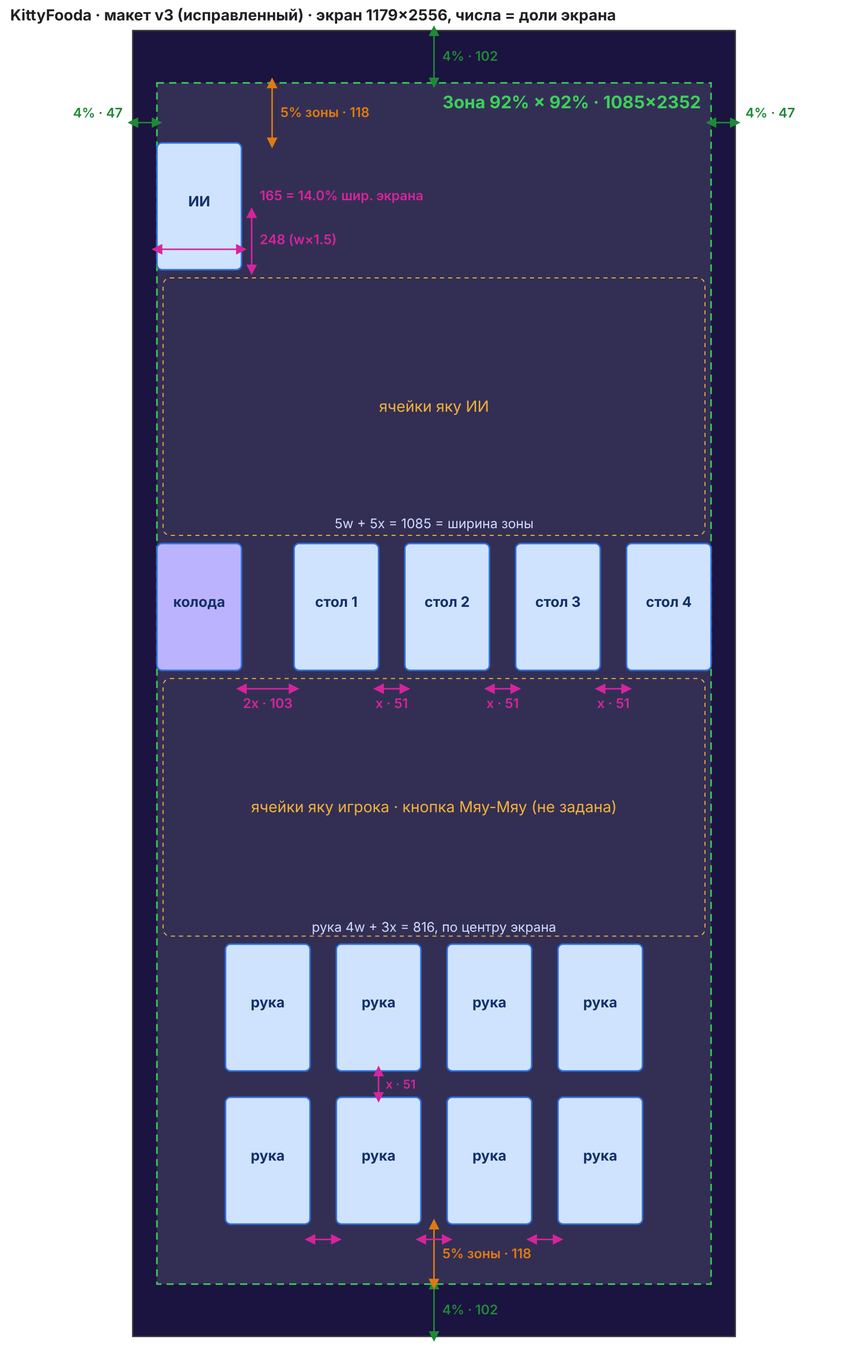
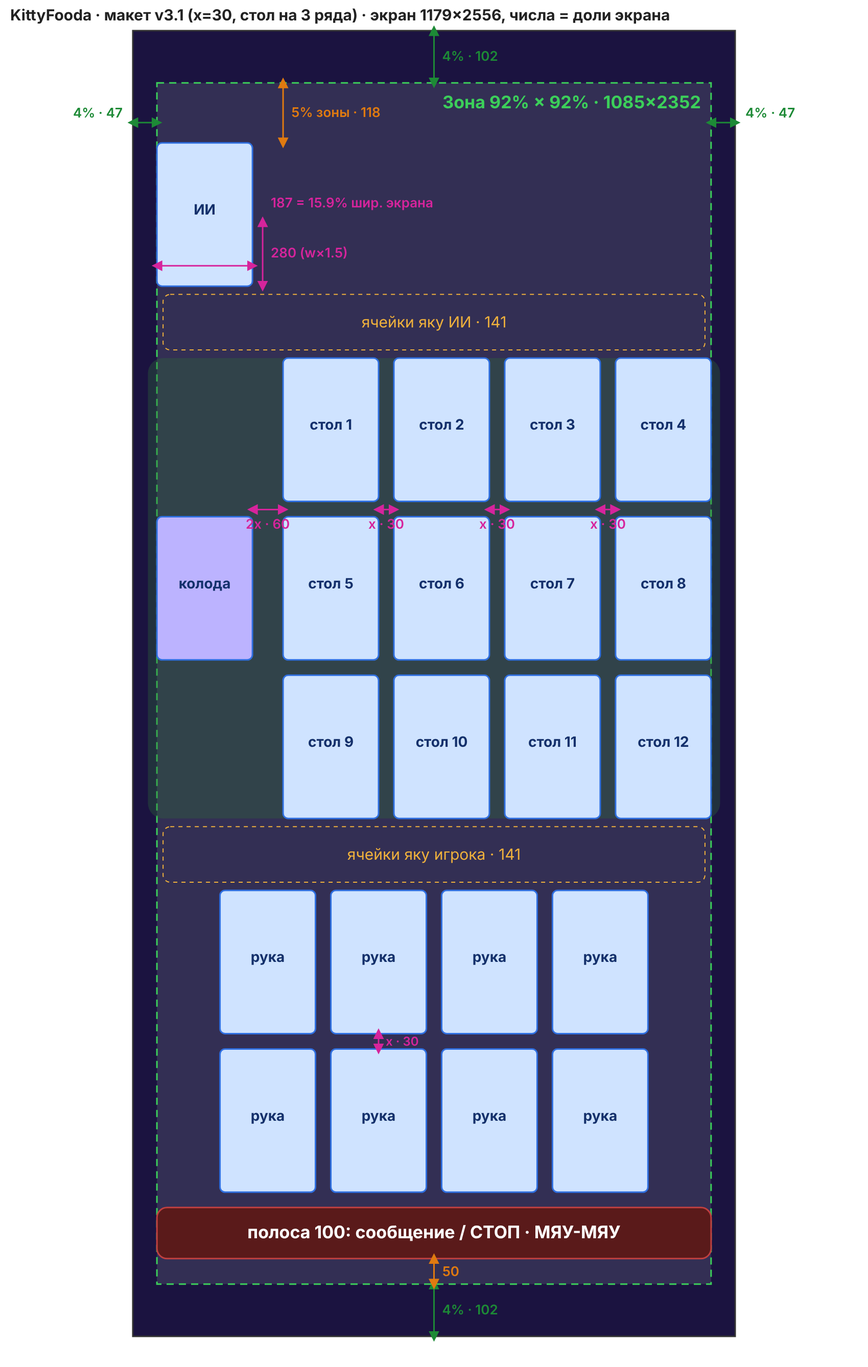
UI: раскладка по макету v3 — поля 4%, x=30, карта 187×280 (2:3), стол на 3 ряда
Ряд стола (колода + 2x + 4 карты через x) равен ширине зоны 92%; рука
по центру экрана, полоса Мяу-Мяу под рукой (100, отступ 50). k уменьшается,
если ячейкам яку не хватает высоты. Макет docs/ui/layout-v3.png, описание
и счёт по высоте — docs/ui-layout.md.

Claude-Session: https://claude.ai/code/session_01YWBhc7XyH6Quahzkpjq16G

Changed region(s): [[0.156, 0.2171, 0.8423, 0.9305], [0.156, 0.062, 0.4991, 0.2171], [0.2184, 0.0, 0.7487, 0.031]]

diff --git a/index.html b/index.html
@@ -229,19 +229,26 @@ const YPH  = 546;  // Player hand top (2 ряда — см. playerHandLayout)
 const YMSG = 706;  // Message bar
 const YBTN = 762;  // Choice buttons
 
-// ── Игровой стол: раскладка под экран (2026-10-09) ───────────────
-// Макет задан в «референсных» пикселях экрана iPhone 15 (1179×2556,
-// это и есть физические пиксели этого экрана). Пиксельные размеры
-// масштабируются одним коэффициентом k, проценты (отступы сверху/снизу,
-// высота стола) берутся от реальной высоты экрана. Если экран короче
-// (16:9, планшет), k ограничивается высотой, и поле центрируется.
-// Одна функция boardLayout() — и для отрисовки, и для хит-теста кликов.
-const REF_W=1179;          // ширина экрана-образца
-const MIN_REF_H=2340;      // минимальная высота (в реф. px), при которой всё помещается
-const SAFE_W=1100;         // ширина игровой зоны
-const BCW=190, BCH=310;    // карта на столе и в руке
-const B_GAP=20;            // промежуток между картами
-const SAFE_TOP=0.08, SAFE_BOTTOM=0.07, FELT_H=0.40, FELT_W=0.95;
+// ── Игровой стол: раскладка под экран (макет v3, 2026-10-10) ────
+// Макет — docs/ui/layout-v3.png. Экран-образец iPhone 15, 1179×2556
+// «референсных» px (= физические px этого экрана), размеры — доли экрана.
+// Поля экрана 4% → игровая зона 92%; внутри зоны отступ сверху 5% её высоты.
+// Ряд стола: колода, промежуток 2x, 4 карты через x — ровно ширина зоны,
+// отсюда размер карты (x = 30 → 187×280, пропорция 2:3). Место стола —
+// на 3 ряда по 4. Рука 2×4 по центру экрана, под ней полоса «Мяу-Мяу».
+// k — масштаб реф. px → CSS px; если экран короче нужного, k уменьшается
+// по высоте и поле центрируется. Одна boardLayout() — для отрисовки и кликов.
+const REF_W=1179;
+const SAFE_M=0.04;                 // поле экрана с каждой стороны
+const SAFE_W=REF_W*(1-2*SAFE_M);   // 1084.7 — ширина игровой зоны
+const ZONE_PAD=0.05;               // отступ сверху внутри зоны, доля её высоты
+const B_GAP=30;                    // промежуток x между картами
+const BCW=(SAFE_W-5*B_GAP)/5;      // 186.9 — колода + 4 карты + 2x + 3x
+const BCH=BCW*1.5;                 // 280.4
+const TABLE_ROWS=3;                // место стола — на 3 ряда
+const BAND_H=100, BAND_BOTTOM=50;  // полоса сообщений/«Мяу-Мяу» и отступ под ней
+const HEADER_H=80;                 // счёт/раунд/💡 — в верхнем отступе зоны
+const MIN_CELLS=120;               // минимальная высота промежутка под ячейки яку
 
 let VIEW={cssW:450,cssH:800,dpr:1,k:1,VW:REF_W,VH:2556,ls:1,lx:0,ly:0};
 function readTgInsets(){
@@ -255,9 +262,12 @@ function resizeCanvas(){
   const dpr=Math.min(3,window.devicePixelRatio||1);
   cv.style.width=cssW+'px';cv.style.height=cssH+'px';
   cv.width=Math.round(cssW*dpr);cv.height=Math.round(cssH*dpr);
-  const k=Math.min(cssW/REF_W, cssH/MIN_REF_H);
+  const insets=readTgInsets();
+  // k по ширине; если по высоте не помещается (ячейкам яку < MIN_CELLS) — уменьшаем
+  let k=cssW/REF_W;
+  for(let i=0;i<40&&boardLayout({k,VW:cssW/k,VH:cssH/k,insets}).cellsGap<MIN_CELLS;i++) k*=0.97;
   const ls=Math.min(cssW/W, cssH/H); // старые экраны (меню, журнал) — 450×800 по центру
-  VIEW={cssW,cssH,dpr,k,VW:cssW/k,VH:cssH/k,ls,lx:(cssW-W*ls)/2,ly:(cssH-H*ls)/2,insets:readTgInsets()};
+  VIEW={cssW,cssH,dpr,k,VW:cssW/k,VH:cssH/k,ls,lx:(cssW-W*ls)/2,ly:(cssH-H*ls)/2,insets};
 }
 function setBoardTransform(){const v=VIEW;ct.setTransform(v.dpr*v.k,0,0,v.dpr*v.k,0,0);}
 function setLegacyTransform(){const v=VIEW;ct.setTransform(v.dpr*v.ls,0,0,v.dpr*v.ls,v.dpr*v.lx,v.dpr*v.ly);}
@@ -271,39 +281,40 @@ function dimScreen(color){
 function toBoard(cx,cy){return {x:cx/VIEW.k, y:cy/VIEW.k};}
 function toLegacy(cx,cy){return {x:(cx-VIEW.lx)/VIEW.ls, y:(cy-VIEW.ly)/VIEW.ls};}
 
-function boardLayout(){
-  const {VW,VH,k,insets}=VIEW;
+function boardLayout(V=VIEW){
+  const {VW,VH,k,insets}=V;
   const sx=(VW-SAFE_W)/2;
-  const sTop=Math.max(VH*SAFE_TOP, (insets?insets.top:0)/k);
-  const sBot=VH-Math.max(VH*SAFE_BOTTOM, (insets?insets.bottom:0)/k);
-  const colX=sx+10+BCW+40;                       // первая колонка стола и руки
-  const band={x:sx,y:sBot-100,w:SAFE_W,h:100};   // кнопки Стоп / Мяу-Мяу, сообщения
-  const handY2=band.y-BCH, handY1=handY2-B_GAP-BCH;
-  const ai={x:colX,y:sTop+80};
-  const midTop=ai.y+BCH, midBot=handY1;
-  const midC=(midTop+midBot)/2;
-  const tableH=2*BCH+B_GAP;
-  const tableY=midC-tableH/2;
-  const gapA=tableY-midTop, gapP=midBot-(tableY+tableH);
-  const pad=Math.min(16,gapA/8);
+  const sTop=Math.max(VH*SAFE_M, (insets?insets.top:0)/k);
+  const sBot=VH-Math.max(VH*SAFE_M, (insets?insets.bottom:0)/k);
+  const pad=(sBot-sTop)*ZONE_PAD;
+  const colX=sx+BCW+2*B_GAP;                     // первая колонка стола
+  const band={x:sx,y:sBot-BAND_BOTTOM-BAND_H,w:SAFE_W,h:BAND_H};
+  const handY2=band.y-B_GAP-BCH, handY1=handY2-B_GAP-BCH;
+  const handX=(VW-(4*BCW+3*B_GAP))/2;            // рука — по центру экрана
+  const ai={x:sx,y:sTop+pad};
+  const tableH=TABLE_ROWS*BCH+(TABLE_ROWS-1)*B_GAP;
+  const cellsGap=(handY1-(ai.y+BCH)-tableH)/2;   // по промежутку над и под столом
+  const tableY=ai.y+BCH+cellsGap;
+  const cp=Math.min(16,Math.max(0,cellsGap)/8);
   return {
-    VW,VH,sx,sTop,sBot,colX,band,
-    header:{x:sx,y:sTop,w:SAFE_W,h:80},
-    hint:{x:sx+SAFE_W-200,y:sTop+6,w:200,h:68},
-    ai, aiAct:{x:ai.x+BCW+40,y:ai.y},
-    deck:{x:sx+10,y:midC-BCH/2},
+    VW,VH,sx,sTop,sBot,pad,colX,handX,band,cellsGap,
+    header:{x:sx,y:sTop+Math.max(0,(pad-HEADER_H)/2),w:SAFE_W,h:Math.min(HEADER_H,pad)},
+    hint:{x:sx+SAFE_W-200,y:sTop+Math.max(0,(pad-68)/2),w:200,h:Math.min(68,pad)},
+    ai, aiAct:{x:colX,y:ai.y},
+    deck:{x:sx,y:tableY+(tableH-BCH)/2},
     table:{x:colX,y:tableY,h:tableH},
-    felt:{x:(VW-VW*FELT_W)/2,y:midC-VH*FELT_H/2,w:VW*FELT_W,h:VH*FELT_H},
-    cellsAI:{x:sx,y:midTop+pad,w:SAFE_W,h:gapA-2*pad},
-    cellsP:{x:sx,y:tableY+tableH+pad,w:SAFE_W,h:gapP-2*pad},
+    felt:{x:VW*0.025,y:tableY,w:VW*0.95,h:tableH},
+    cellsAI:{x:sx,y:ai.y+BCH+cp,w:SAFE_W,h:cellsGap-2*cp},
+    cellsP:{x:sx,y:tableY+tableH+cp,w:SAFE_W,h:cellsGap-2*cp},
     handY1,handY2,
   };
 }
-// Стол: 4 колонки; больше 8 карт — 3-й ряд, карты ужимаются в ту же высоту
+// Стол: 4 колонки, до 3 рядов полным размером (по центру места стола);
+// больше 12 карт — ряды ужимаются в ту же высоту
 function tableLayout(L){
   const sorted=[...G.table].sort((a,b)=>a.m-b.m);
   const rows=Math.max(2,Math.ceil(sorted.length/4));
-  const h=rows<=2?BCH:(L.table.h-(rows-1)*B_GAP)/rows, w=h*BCW/BCH;
+  const h=Math.min(BCH,(L.table.h-(rows-1)*B_GAP)/rows), w=h*BCW/BCH;
   const y0=L.table.y+(L.table.h-(rows*h+(rows-1)*B_GAP))/2;
   return sorted.map((card,i)=>({card,w,h,
     x:L.table.x+(i%4)*(w+B_GAP), y:y0+Math.floor(i/4)*(h+B_GAP)}));
@@ -315,7 +326,7 @@ function playerHandLayout(L=boardLayout()){
     .map((card,i)=>({card,i}))
     .sort((a,b)=>a.card.m-b.card.m||(a.i-b.i))
     .map((e,idx)=>({card:e.card,i:e.i,
-      x:L.colX+(idx%4)*(BCW+B_GAP),
+      x:L.handX+(idx%4)*(BCW+B_GAP),
       y:idx<4?L.handY1:L.handY2}));
 }
 function choiceButtons(L){
@@ -326,7 +337,7 @@ const inRect=(p,r)=>p.x>=r.x&&p.x<=r.x+r.w&&p.y>=r.y&&p.y<=r.y+r.h;
 
 function drawBoard(){
   const L=boardLayout();
-  // Сукно стола: 95% ширины, 40% высоты экрана
+  // Сукно стола: 95% ширины, по высоте — место стола на 3 ряда
   ct.fillStyle='rgba(20,60,30,.35)';
   ct.beginPath();rr(L.felt.x,L.felt.y,L.felt.w,L.felt.h,40);ct.fill();
   drawBoardHeader(L);

diff --git a/tools/ui-shots/measure.js b/tools/ui-shots/measure.js
@@ -7,10 +7,13 @@ const { chromium } = require('/opt/node-tools/node_modules/playwright');
     await p.goto('file://'+require('path').resolve(__dirname,'../../index.html')); await p.waitForTimeout(200);
     const r = await p.evaluate(() => { newGame(); const L=boardLayout(); const t=tableLayout(L)[0], hd=playerHandLayout(L);
       const px=v=>+(v*VIEW.k*VIEW.dpr).toFixed(1);
-      return {k:+(VIEW.k*VIEW.dpr).toFixed(3), card:[px(BCW),px(BCH)], table0:[px(t.w),px(t.h)],
-        deckLeftFromSafe:px(L.deck.x-L.sx), gapDeckTable:px(L.colX-(L.deck.x+BCW)), gapTable:px(B_GAP),
-        safeW:px(SAFE_W), top:px(L.sTop), topPct:+(L.sTop/L.VH*100).toFixed(1), botPct:+((L.VH-L.sBot)/L.VH*100).toFixed(1),
-        aiFromTop:px(L.ai.y-L.sTop), band:px(L.band.h), aiAlignedHand: L.ai.x===hd[0].x };
+      const T=tableLayout(L);
+      return {k:+(VIEW.k*VIEW.dpr).toFixed(3), card:[px(BCW),px(BCH)], table0:[px(T[0].w),px(T[0].h)],
+        sidePct:+(L.sx/L.VW*100).toFixed(1), topPct:+(L.sTop/L.VH*100).toFixed(1), botPct:+((L.VH-L.sBot)/L.VH*100).toFixed(1),
+        safeW:px(SAFE_W), padPct:+(L.pad/(L.sBot-L.sTop)*100).toFixed(1),
+        gapDeckTable:px(L.colX-(L.deck.x+BCW)), gapX:px(B_GAP), rowW:px(T[3].x+T[3].w-L.sx),
+        tableH3rows:px(L.table.h), cellsGap:px(L.cellsGap), band:px(L.band.h),
+        handCentered:Math.abs(hd[0].x+(hd[3].x+BCW)-L.VW)<0.01, aiAlignedDeck:L.ai.x===L.deck.x };
     });
     console.log(name, JSON.stringify(r)); await p.close();
   }

diff --git a/docs/ui-layout.md b/docs/ui-layout.md
@@ -1,10 +1,10 @@
-# Раскладка игрового экрана (UI v2, 2026-10-09)
+# Раскладка игрового экрана (UI v3, 2026-10-10)
 
 Ветка `ui/screen-layout`. **В `main` пока не влита** — ждёт решения пользователя
 после просмотра на телефоне. Скриншоты: `docs/ui/iphone15-turn.png`,
 `docs/ui/iphone15-choose.png`.
 
-## Шаблон пользователя (исходное ТЗ)
+## Шаблон v2 (первое ТЗ, 2026-10-09; заменён макетом v3)
 
 Экран-образец — iPhone 15, **1179×2556** физических px. Пиксельные значения
 относительные (масштабируются), проценты — от высоты экрана.
@@ -20,64 +20,82 @@
 - Карты противника — одна карта, слева выровнена по левой карте игрока,
   **80 px** от верха зоны.
 - В промежутках между столом и картами игрока / ИИ — ячейки для показа яку.
-- Сложность — на другом экране; подсказки — над картой противника справа.
+- Сложность — на другом экране; подсказки — над картой ## Макет v3 (текущий, 2026-10-10)
+
+Макет: `docs/ui/layout-v3.png` (исходник `layout-v3.svg`). Основа — схема
+пользователя 1179×2556; размеры в ней считаются долями экрана. Что в схеме
+не сходилось и как решено:
+
+- Подписи «поля 8%» противоречили «зона 92%, 1084×2351». **Решение
+  пользователя: поля 4%** с каждой стороны → зона 92% × 92%.
+- Ряд стола со схемы (колода + 4 карты 180 px, промежутки 112 + 3×56)
+  занимал 1180 px, то есть шире зоны. **По слову пользователя промежуток x = 30**,
+  у колоды — 2x. Ширина карты берётся из условия «ряд = ширина зоны»:
+  5w + 5x = 1084,7 → **w = 186,9, h = 1,5w = 280,4** (пропорция 2:3).
+- Стол — **место на 3 ряда по 4** (3h + 2x = 901), колода по центру этого места.
+- Полоса «Мяу-Мяу»/сообщений (100) — под рукой через x, под полосой 50 до края
+  зоны. Нижний отступ 5% из схемы заменён этим, рука поднята на 62 px.
+
+Счёт по высоте (iPhone 15, реф. px): поле 102 · отступ 5% зоны 118 (в нём шапка:
+счёт, раунд, 💡) · карта ИИ 280 · ячейки яку ИИ **141** · стол 901 · ячейки яку
+игрока **141** · рука 280 + 30 + 280 · 30 · полоса 100 · 50 · поле 102 = 2556.
+Ячейкам яку остаётся немного — это цена места под 3 ряда стола.
 
 ## Как реализовано
 
-Модуль «Игровой стол: раскладка под экран» в `index.html` (сразу после
-старых констант `YAI…YBTN`). Константы: `REF_W=1179`, `MIN_REF_H=2340`,
-`SAFE_W=1100`, `BCW×BCH=190×310`, `B_GAP=20`, `SAFE_TOP=0.08`,
-`SAFE_BOTTOM=0.07`, `FELT_H=0.40`, `FELT_W=0.95`.
+Модуль «Игровой стол: раскладка под экран (макет v3)» в `index.html`.
+Константы: `REF_W=1179`, `SAFE_M=0.04`, `SAFE_W=REF_W·0.92`, `ZONE_PAD=0.05`,
+`B_GAP=30`, `BCW=(SAFE_W−5·B_GAP)/5`, `BCH=1.5·BCW`, `TABLE_ROWS=3`,
+`BAND_H=100`, `BAND_BOTTOM=50`, `HEADER_H=80`, `MIN_CELLS=120`.
 
-**Масштаб.** `resizeCanvas()`: холст на весь экран (CSS `position:fixed`),
-внутреннее разрешение × devicePixelRatio. `k = min(cssW/1179, cssH/2340)`,
-вся раскладка считается в «реф. пикселях» (на iPhone 15 = физические px,
-проверено замером: карта ровно 190×310, отступы 10/40/20/80/100, зона 1100).
-Экран короче 1179:2340 (16:9, планшет) — `k` по высоте, поле по центру.
-Отступ сверху/снизу = max(8% / 7%, safe area Telegram). Пересчёт на
-`resize` и событиях Telegram `viewportChanged/safeAreaChanged/
-contentSafeAreaChanged/fullscreenChanged`.
+**Масштаб.** `resizeCanvas()`: холст на весь экран, внутреннее разрешение ×
+devicePixelRatio. `k = ширина/1179`; если по высоте не помещается (промежуток
+под ячейки яку < `MIN_CELLS`), `k` уменьшается, поле центрируется по ширине
+(поля по бокам становятся больше 4%). Отступ сверху/снизу = max(4%, safe area
+Telegram). Пересчёт на `resize` и событиях Telegram
[1 lines of base64/hex data omitted]
 
 **Одна функция `boardLayout()`** — и для отрисовки, и для хит-теста
-(`boardClick`), плюс `tableLayout(L)`, `playerHandLayout(L)`,
-`choiceButtons(L)`.
+(`boardClick`), плюс `tableLayout(L)`, `playerHandLayout(L)`, `choiceButtons(L)`.
 
 Сверху вниз:
-1. Шапка 80 px (внутри зоны): «ВЫ n : m ИИ», «Раунд N · до 30 (★ Мяу-Мяу)»,
-   справа кнопка 💡 (подсказка, с числом купленных).
-2. Карта ИИ рубашкой с числом карт. Справа от неё (через 40) — карта,
-   которую ИИ сейчас играет, лицом вверх; там же «ИИ ходит…».
-3. Ячейки ИИ: 4 ячейки по типам (👑 яркие, 🧸 животные, 🎀 ленты,
-   🐾 простые) с мини-картами внахлёст и числом + ячейка очков раунда.
-4. Стол: колода слева (число карт под ней; взятая из колоды карта —
-   лицом вверх поверх колоды), 4 колонки, 2 ряда. >8 карт — 3-й ряд,
-   карты стола ужимаются в ту же высоту (рука и колода не меняются).
-   Подсветка карт-целей захвата; в `captureSelect` клик по столу.
+1. Шапка в верхнем отступе зоны: «ВЫ n : m ИИ», «Раунд N · до 30 (★ Мяу-Мяу)»,
+   справа 💡 (подсказка, с числом купленных).
+2. Карта ИИ рубашкой с числом карт — у левого края зоны, над колодой. Справа
+   (на первой колонке стола) — карта, которую ИИ сейчас играет; «ИИ ходит…».
+3. Ячейки ИИ: 👑 яркие, 🧸 животные, 🎀 ленты, 🐾 простые + очки раунда.
+4. Стол на сукне (95% ширины экрана, высота — место на 3 ряда): колода слева
+   по центру, число карт под ней; взятая из колоды карта — поверх колоды.
+   Карты стола по месяцу, 4 колонки; 2–3 ряда полного размера, по центру места;
+   больше 12 — ряды ужимаются. Подсветка целей захвата; в `captureSelect` — клик.
 5. Ячейки игрока — как у ИИ.
-6. Рука игрока 2×4, сортировка по месяцу (сам `G.pHand` не
-   переупорядочивается). Выбранная карта поднята на 30, подсказка — голубая рамка.
-7. Полоса 100 px: текст `G.msg` (кегль ужимается под длину) или, в фазе
-   `choose`, кнопки «✋ СТОП» / «🐱 МЯУ-МЯУ».
+6. Рука 2×4 по центру экрана, по месяцу (`G.pHand` не переупорядочивается).
+   Выбранная карта поднята на 30 и светится жёлтым, подсказка — голубая рамка.
+7. Полоса 100: `G.msg` или, в фазе `choose`, кнопки «✋ СТОП» / «🐱 МЯУ-МЯУ».
+
+Замер (`measure.js`): iPhone 15 — карта 186,9×280,4, поля 4/4/4%, отступ 5%,
+2x = 60, x = 30, ряд = 1084,7, ячейки 141; Android 412×915 — ячейки 176;
+16:9 375×667 — не помещается по высоте, k уменьшен, карта 149×223, ячейки 98,5
+(по бокам поля 11,7%).
 
 ## Решения, принятые сверх ТЗ (подтвердить у пользователя)
 
-1. Колода/стол центрированы по середине между картой ИИ и рукой игрока,
-   а не строго по центру экрана: при строгом центре сверху ~360 px,
-   снизу ~40 px — ячейки игрока бы не поместились.
-2. Рука игрока на той же сетке, что стол (под его колонками), не по центру.
-3. 3-й ряд стола с ужатием карт при >8 картах.
-4. Карта хода ИИ — справа от его карты; карта из колоды — поверх колоды.
-5. Счёт и раунд — в верхней полосе (в ТЗ не было).
-6. Сложность — ряд кнопок Easy/Normal/Hard/Мастер на стартовом экране.
+1. Стол — по середине между картой ИИ и рукой; 2 ряда центрируются в месте на 3.
+2. Карта хода ИИ — справа от его карты; карта из колоды — поверх колоды.
+3. Шапка (счёт, раунд, 💡) — в верхнем отступе зоны 5%.
+4. Полоса «Мяу-Мяу»: 100 высотой, 30 под рукой, 50 до края зоны.
+5. Сложность — ряд кнопок Easy/Normal/Hard/Мастер на стартовом экране.
+
+ стартовом экране.
 
 ## Арт
 
-- Карта в слот 190×310 (на iPhone 15 — 1:1). Рекомендуемый размер файла
-  **380×620** (запас для планшетов), пропорция 0.613.
+- Карта в слот 187×280 (на iPhone 15 — 1:1). Рекомендуемый размер файла
+  **400×600** (запас для планшетов), пропорция **2:3**.
 - `cards/<имя>.png|jpg|svg` перекрывает встроенный SVG (как раньше).
   `drawFitted()`: если пропорции совпадают с слотом (±6%) — на весь слот,
   иначе вписывается по центру на фоне цвета месяца (встроенные SVG 120×160
-  поэтому с цветными полосами сверху/снизу — это ожидаемо до нового арта).
+  поэтому с цветными полосами по бокам — это ожидаемо до нового арта).
 - Рубашка: `cards/back.png|jpg|svg`, если файла нет — рисуется кодом.
 
 ## Не сделано / открыто
@@ -89,11 +107,12 @@ contentSafeAreaChanged/fullscreenChanged`.
   вернуть, если пользователь попросит.
 - Фон стола/экрана картинкой — пока не поддержан.
 - Проверено только в headless Chromium (393×852, 412×915, 375×667),
-  на живом телефоне в Telegram — нет.
+  на живом телефоне в Telegram — нет. В fullscreen Telegram верхний inset
+  может быть больше 4% — тогда отступ берётся из inset, а k при нехватке высоты уменьшается.
 
 ## Проверка без телефона
 
 `tools/ui-shots/` (Playwright из `/opt/node-tools`, не деплоится):
 - `node tools/ui-shots/shot.js file://$PWD/index.html out.png 393 852 mid|choose|deal|start`
-- `node tools/ui-shots/measure.js` — замер размеров на 3 экранах;
+- `node tools/ui-shots/measure.js` — замер размеров на 3 экранах (поля, карта, x, ряд, ячейки);
 - `node tools/ui-shots/click.js` — выбор сложности + 6 ходов кликами против Мастера.
